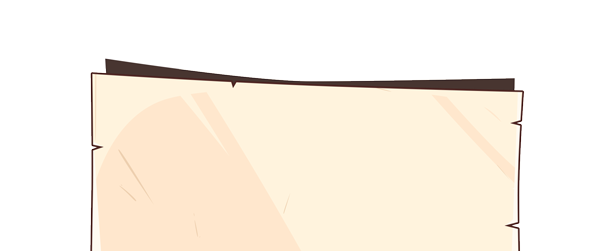
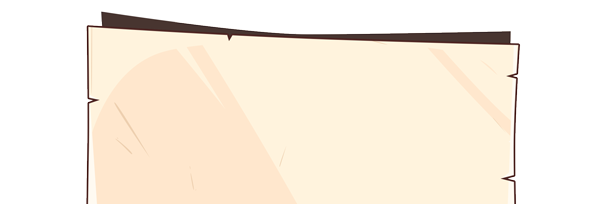
tablero largo

Changed region(s): [[0.1208, 0.0588, 0.8758, 1.0], [0.2114, 0.6471, 0.2416, 0.7059]]

diff --git a/resources/css/tableroLargo.css b/resources/css/tableroLargo.css
@@ -30,10 +30,6 @@
     float: left;
 }
 
-.row.tableroNormal,
-.row.tableroLargo {
-    margin-right: -130px;
-}
 
 .content_img1,
 .content_img2,
@@ -98,30 +94,30 @@
 }
 
 .content_img1 .img1 {
-    width: 22vh;
+    width: 12vw;
     height: 26vh;
 }
 
 .content_img1 .imgStreet {
-    width: 14vh;
+    width: 8vw;
     height: 18vh;
 }
 
 .content_img1 .img2 {
-    width: 80vh;
+    width: 40vw;
     height: 16vh;
 }
 
 .content_img1 .img3 {
     margin-top: -2px;
-    width: 57vh;
+    width: 32vw;
     height: 16vh;
 }
 
 .content_img2 .img1 {
-    width: 22vh;
-    height: 58vh;
-    margin-top: -6vh;
+    width: 12vw;
+    height: 53vh;
+    margin-top: -4vh;
 }
 
 .tablero2 .content_img2 .img1 {
@@ -129,66 +125,62 @@
     margin-top: -16vh;
 }
 
-.tablero3 .content_img2 .img1 {
-    margin-top: 0vh;
-}
-
 .content_img2 .imgStreet {
-    width: 14vh;
+    width: 8vw;
     height: 51vh;
     margin-top: -1.2vh;
 }
 
 .content_img2 .img2 {
-    width: 80vh;
+    width: 40vw;
     height: 49vh;
 }
 
 .content_img2 .img3 {
-    width: 57vh;
+    width: 32vw;
     height: 49vh;
 }
 
 .content_img3 .img1 {
-    width: 22vh;
+    width: 12vw;
     height: 58vh;
     margin-top: -20vh;
 }
 
 .content_img3 .imgStreet {
-    width: 14vh;
+    width: 8vw;
     height: 35vh;
     margin-top: -1.2vh;
 }
 
 .content_img3 .img2 {
-    width: 80vh;
+    width: 40vw;
     height: 16vh;
 }
 
 .content_img3 .img3 {
-    width: 57vh;
+    width: 32vw;
     height: 16vh;
 }
 
 .content_img3 .img1 .calle {
-    margin-top: 7vh;
-    width: 23.5vh;
-    height: 13vh;
+    margin-top: 5vh;
+    width: 12vw;
+    height: 15vh;
 }
 
 .content_imgStreetH {
-    width: 83.5vh;
+    width: 42vw;
     height: 13vh;
     margin-top: -10vh;
-    margin-left: 33.5vh;
+    margin-left: 18.5vw;
 }
 
 .content_imgStreetH1 {
-    width: 59vh;
+    width: 33vw;
     height: 13vh;
-    margin-top: -71px;
-    margin-left: 70.2px;
+    margin-top: -10vh;
+    margin-left: 6vw;
 }
 
 .tablero2 .content_imgStreetH,
@@ -197,35 +189,28 @@
 }
 
 .content_imgStreetH2 {
-    width: 83.5vh;
-    height: 13vh;
+    width: 42vw;
+    height: 15vh;
     margin-top: -3vh;
-    margin-left: 33.6vh;
+    margin-left: 18.5vw;
 }
 
 .tablero2 .content_imgStreetH1,
 .tablero3 .content_imgStreetH1 {
-    margin-top: -41px;
+    margin-top: -6vh;
 }
 
-.tablero2 .content_imgStreetH2 {
-    margin-top: -7px;
+.tablero2 .content_imgStreetH2,
+.tablero2 .content_imgStreetH3{
+    margin-top: -1vh;
 }
 
-.tablero3 .content_imgStreetH2,
-.tablero3 .content_imgStreetH3 {
-    margin-top: -62px;
-}
-
-.tablero2 .content_imgStreetH3 {
-    margin-top: -7px;
-}
 
 .content_imgStreetH3 {
-    width: 59vh;
-    height: 13vh;
-    margin-top: -20px;
-    margin-left: 71.2px;
+    width: 33vw;
+    height: 15vh;
+    margin-top: -3vh;
+    margin-left: 6vw;
 }
 
 .tablero3 .content_img3 .img1 .opcion,
@@ -234,7 +219,7 @@
 }
 
 .tableroLargo  .tablero3 .content_img3 .imgStreet {
-    height: 18vh;
+    height: 16vh;
 }
 
 .tableroLargo .tablero3 .content_img3 .imgStreet.uno {
@@ -288,15 +273,15 @@
 }
 
 .imgStreet .posicion1 {
-    margin-left: 28vh;
+    margin-left: 13vw;
 }
 
 .imgStreet .posicion2 {
-    margin-left: 50vh;
+    margin-left: 25vw;
 }
 
 .imgStreet .posicion3 {
-    margin-left: 72vh;
+    margin-left: 38vw;
 }
 
 .imgStreet .posicion8 {
@@ -363,21 +348,21 @@
     background-image: url(../assets/imagenes_nuevas/PNG/hoja_espacio_dados.png);
     background-repeat: no-repeat;
     background-position: top;
-    background-size: 100%;
+    background-size: contain;
     position: fixed;
     z-index: 1;
-    bottom: 0%;
-    width: 86vh;
-    height: 32vh;
-    margin-left: 52vh;
+    bottom: 0;
+    width: 100%;
+    height: 22vh;
 }
 
 .containerTablero .perfilDados .btn.btnUsuario {
     cursor: pointer;
-    margin-left: 27vh;
-    margin-top: 16vh;
-    height: 15vh;
-    width: 14vh;
+    margin-left: 40%;
+    margin-top: 4vh;
+    height: 18vh;
+    width: 8%;
+    float: left;
     background-size: 100%;
     background-repeat: no-repeat;
     background-position: bottom;
@@ -386,11 +371,11 @@
 .containerTablero .perfilDados .btn.btnDados {
     background-image: url(../assets/dados/quietos_da2.png);
     cursor: pointer;
-    margin-left: 5vh;
-    margin-top: 16vh;
-    height: 14vh;
-    width: 20vh;
-    background-size: 70%;
+    margin-left: 52%;
+    margin-top: 3vh;
+    height: 18vh;
+    width: 8%;
+    background-size: 100%;
     background-repeat: no-repeat;
     background-position: bottom;
     font-family: "Lalezar-Regular";
@@ -409,9 +394,8 @@
 
 .containerTablero .preguntas .container.boxPreguntas,
 .containerTablero .preguntas .container.box_preguntas {
-    /*width: 450px;*/
-    width: 860px;
-    height: 500px;
+    width: 70vw;
+    height: 70vh;
 }
 
 .containerTablero .preguntas .container.box_preguntas {
@@ -422,18 +406,20 @@
     background-color: unset;
     background-size: cover;
     margin: auto;
-    margin-top: 3%;
+    margin-top: 3vh;
     font-family: "Lalezar-Regular";
+    width: 70vw;
+    height: 70vh;
 }
 
 
 .containerTablero .preguntas.modal.fade.collapse.in .tituloPregunta {
     margin: auto;
-    margin-top: 78px;
+    margin-top: 9vh;
     margin-bottom: -20px;
     width: 45%;
     text-align: center;
-    font-size: 40px;
+    font-size: 5vh;
     color: #a31bef;
 }
 
@@ -443,13 +429,14 @@
     margin-bottom: 10px;
     width: 75%;
     text-align: center;
-    font-size: 14px;
+    font-size: 2.5vh;
     color: saddlebrown;
 }
 
 .containerTablero .preguntas.modal.fade.collapse.in .textoArea {
     margin: auto;
-    width: 60%;
+    margin-left: 10%;
+    width: 80%;
     padding: 5px;
     font-size: 15px;
     color: saddlebrown;
@@ -472,7 +459,7 @@
     margin: auto;
     width: 75%;
     color: saddlebrown;
-    font-size: 12px;
+    font-size: 1.8vh;
 }
 
 .containerTablero .preguntas.modal.fade.collapse.in .textoRespuesta .boxRadio .radio2 {

diff --git a/resources/js/juego.js b/resources/js/juego.js
@@ -55,7 +55,7 @@ class juego {
                 var fjson = JSON.parse(this.responseText);
                 if(fjson.respuesta == 'Sin respuestas' && fjson.ack == 1){//solo si voy a inicar el juego
                     msjBC.informacion('INFORMACIÓN','Te toca'); 
-                    document.getElementById('btnDados').style.display = 'inline-block';
+                    document.getElementById('btnDados').style.display = 'block';
                 }else ju_ego.conocer_mi_turno();
                 
                 if(fjson.respuesta && fjson.respuesta.position){
@@ -254,7 +254,7 @@ class juego {
                 }else{
                     if(fjson.ack == 1){
                         msjBC.ok('VAMOS!','Mi turno'); 
-                        document.getElementById('btnDados').style.display = 'inline-block';
+                        document.getElementById('btnDados').style.display = 'block';
                         document.getElementById('btnDados').style.backgroundImage = 'url(../assets/dados/quietos_da2.png)';
                         document.getElementById('btnDados').setAttribute('onclick','ju_ego.lanzar()');
                     }else {

diff --git a/resources/css/avatar.css b/resources/css/avatar.css
@@ -14,8 +14,8 @@
 
 .containerTablero .perfilDados .container.avatar,
 .containerTablero .perfilDados .container.contentAvatar {
-    width: 390px;
-    height: 370px;
+    width: 30vw;
+    height: 58vh;
 }
 
 .containerTablero .perfilDados .container.avatar {
@@ -27,7 +27,7 @@
     background-repeat: no-repeat;
     background-position: center;
     background-size: cover;
-    margin-top: -40px;
+    margin-top: -10vh;
     position: relative;
     z-index: 2;
     font-family: "Lalezar-Regular";
@@ -36,8 +36,8 @@
 }
 
 .imgAvatarTitle {
-    width: 55%;
-    margin-left: 95px;
+    width: 17vw;
+    margin-left: 6vw;
     z-index: 1;
     position: relative;
 }

diff --git a/resources/css/perfilUsuario.css b/resources/css/perfilUsuario.css
@@ -28,17 +28,19 @@
     background-repeat: no-repeat;
     background-position: center;
     background-size: cover;
-    margin-top: -40px;
+    margin-top: -8vh;
     position: relative;
     z-index: 2;
     font-family: "Lalezar-Regular";
     font-size: 24px;
     color: saddlebrown;
+    width: 30vw;
+    height: 58vh;
 }
 
 .imgPerfil {
-    width: 55%;
-    margin-left: 55%;
+    width: 17vw;
+    margin-left: 13vw;
     z-index: 1;
     position: relative;
 }

diff --git a/resources/views/tableroNormal.php b/resources/views/tableroNormal.php
@@ -7,6 +7,7 @@
     <link rel="stylesheet" href="https://maxcdn.bootstrapcdn.com/bootstrap/3.4.1/css/bootstrap.min.css">
     <!-- Font Awesome -->
     <link rel="stylesheet" href="https://use.fontawesome.com/releases/v5.8.1/css/all.css" integrity="sha384-50oBUHEmvpQ+1lW4y57PTFmhCaXp0ML5d60M1M7uH2+nqUivzIebhndOJK28anvf" crossorigin="anonymous">
+    <!--<link href="../../resources/css/tableroNormal.css" rel="stylesheet" >-->
     <link href="../../resources/css/tableroNormal.css" rel="stylesheet" >
     <link href="../../resources/css/perfilUsuario.css" rel="stylesheet" >
     <link href="../../resources/css/avatar.css" rel="stylesheet" >
